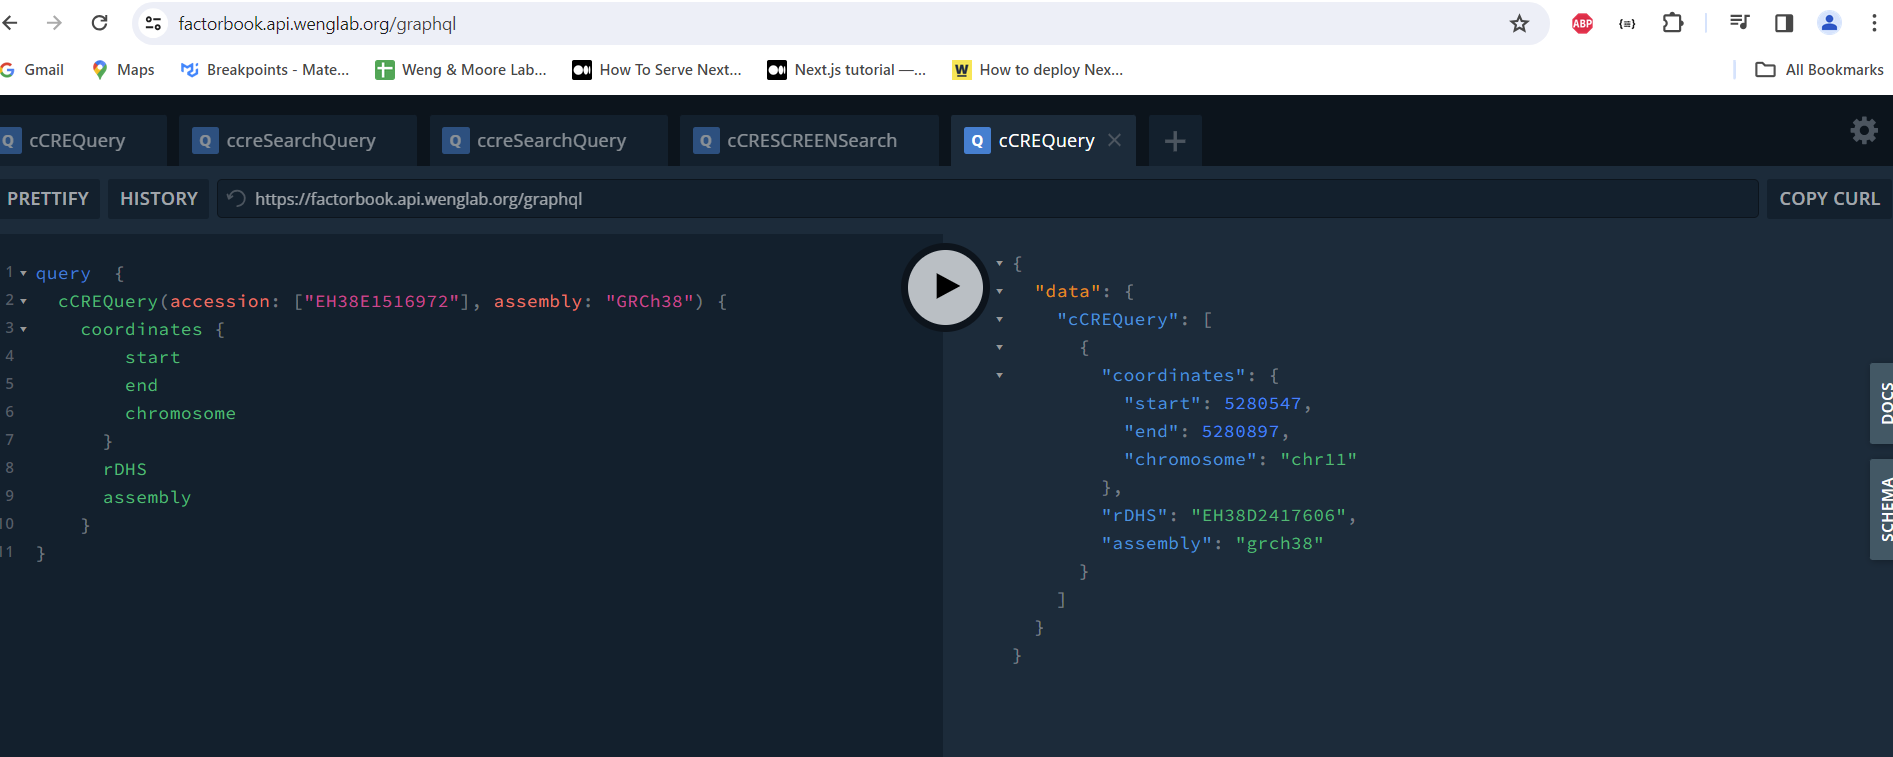
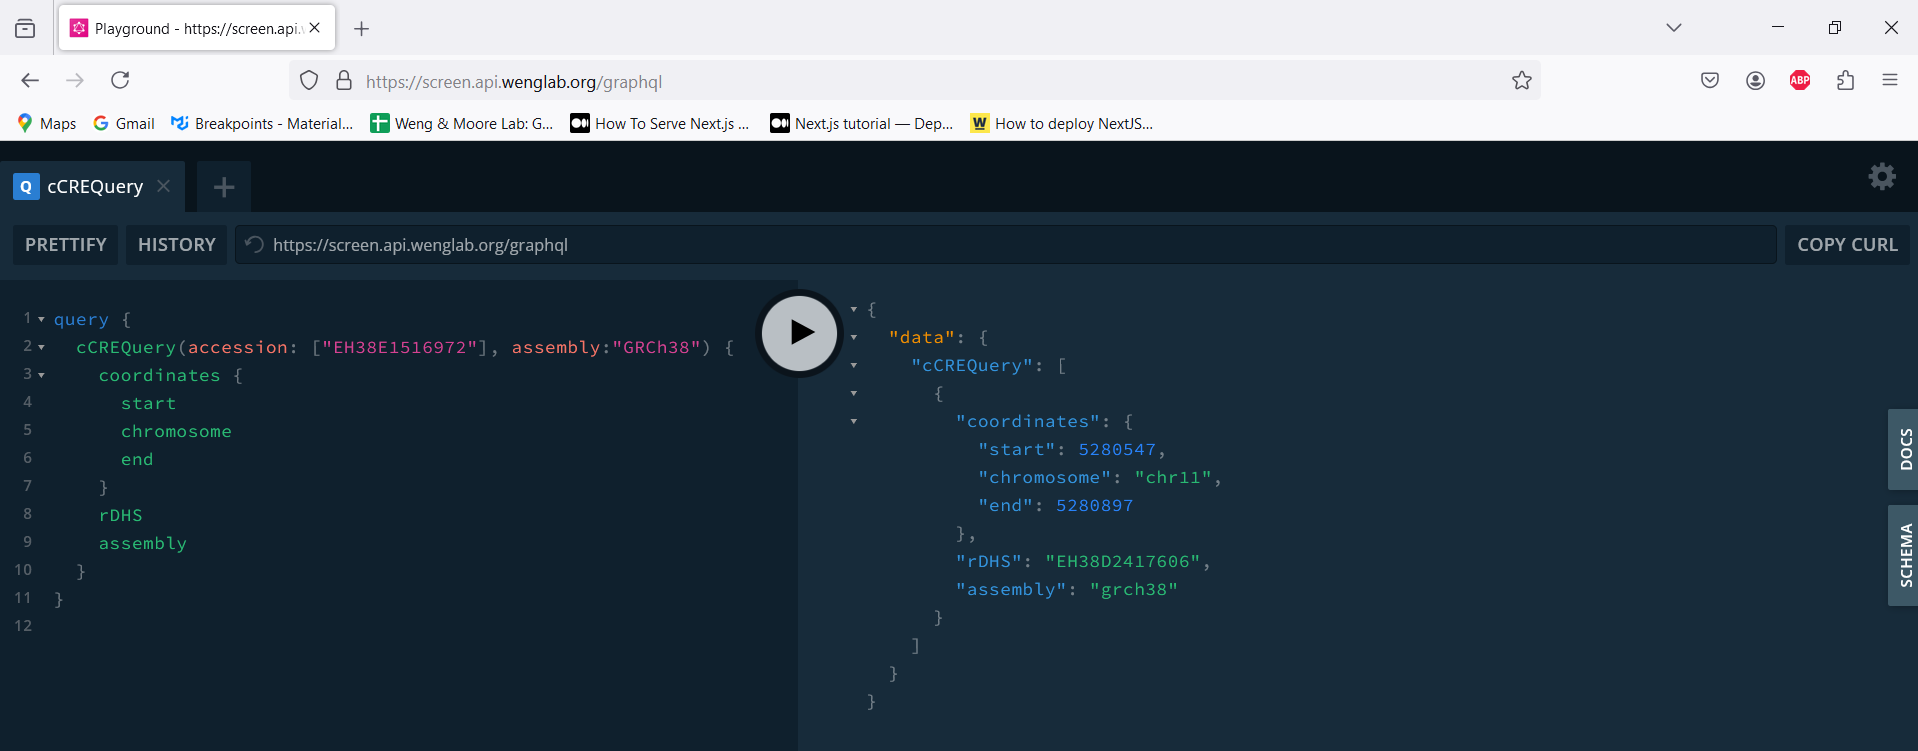
Update docs

diff --git a/screen2.0/graphqlapidocs/index.md b/screen2.0/graphqlapidocs/index.md
@@ -12,14 +12,18 @@ is a good introduction.
 
 ## Getting started
 
-The host url for the API is [`https://factorbook.api.wenglab.org/graphql`](https://factorbook.api.wenglab.org/graphql).
+<span style="color:red;">
+**NOTE: We are working on adding authentication to [`https://screen.api.wenglab.org/graphql`](https://screen.api.wenglab.org/graphql). Hence it's currently unavailable for public access. It will be available as soon as possible. Meanwhile, please feel free to [contact us](https://screen.wenglab.org/about#contact-us) if you want to access any SCREEN data.**
+</span>
+
+The host url for the API is [`https://screen.api.wenglab.org/graphql`](https://screen.api.wenglab.org/graphql).
 
 ### Playground
 
 Navigating to the host url directly in the browser gives an interactive
 playground:
 
-<a href="https://factorbook.api.wenglab.org/graphql" rel="noopener noreferrer" target="_blank">
+<a href="https://screen.api.wenglab.org/graphql" rel="noopener noreferrer" target="_blank">
     <img src="img/playground.png"></img>
 </a>
 

diff --git a/screen2.0/graphqlapidocs/queries/ccredetails.md b/screen2.0/graphqlapidocs/queries/ccredetails.md
@@ -2,6 +2,8 @@
 
 ## Query a max Z scores of a cCRE 
 
+**NOTE: If you are looking for max z-scores for ALL cCREs best choice is to download zscore files at [`https://screen.wenglab.org/downloads`](https://screen.wenglab.org/downloads) (Data Matrices tab)**
+
 Returns a cell type agnostic max Z scores of a cCRE 
 
 ```graphql
@@ -22,6 +24,8 @@ query {
 ```
 
 ## Get biosample-specific epigenetic signals
+
+**NOTE: If you are looking for biosample specific z-scores for ALL cCREs best choice is to download zscore files at [`https://screen.wenglab.org/downloads`](https://screen.wenglab.org/downloads) (Data Matrices tab)**
 
 Returns all biosample-specific signals for a given cCRE.
 

diff --git a/screen2.0/graphqlapidocs/getting_started/command_line.md b/screen2.0/graphqlapidocs/getting_started/command_line.md
@@ -6,7 +6,7 @@ command for reference.
 
 The following command
 ```bash
-curl 'https://factorbook.api.wenglab.org/graphql'\
+curl 'https://screen.api.wenglab.org/graphql'\
  -H 'Content-Type: application/json'\
  -H 'Accept: application/json'\
  --data-binary '{"query":"{ cCREQuery(accession: EH38E1516972, assembly: grch38) { 

diff --git a/screen2.0/graphqlapidocs/queries/ccres.md b/screen2.0/graphqlapidocs/queries/ccres.md
@@ -1,5 +1,7 @@
 # Searching cCREs
 
+**NOTE: If you are looking for details for ALL cCREs best choice is to download files at [`https://screen.wenglab.org/downloads`](https://screen.wenglab.org/downloads)**
+
 ## Query cCREs by genomic region 
 
 Returns the cCREs in the given range, their location, and their group, zscores.

diff --git a/screen2.0/graphqlapidocs/getting_started/python.md b/screen2.0/graphqlapidocs/getting_started/python.md
@@ -23,7 +23,7 @@ query cCREQuery($accession: [String!], $assembly: String!) {
 }
 """
 request = requests.post(
-    'https://factorbook.api.wenglab.org/graphql',
+    'https://screen.api.wenglab.org/graphql',
     json={ 'query': query, 'variables': variables },
     headers={}
 )

diff --git a/screen2.0/graphqlapidocs/getting_started/javascript.md b/screen2.0/graphqlapidocs/getting_started/javascript.md
@@ -27,7 +27,7 @@ const variables = {
   assembly: "grch38"
 }
 
-request('https://factorbook.api.wenglab.org/graphql', query).then(data =>
+request('https://screen.api.wenglab.org/graphql', query).then(data =>
 
 )
 ```
